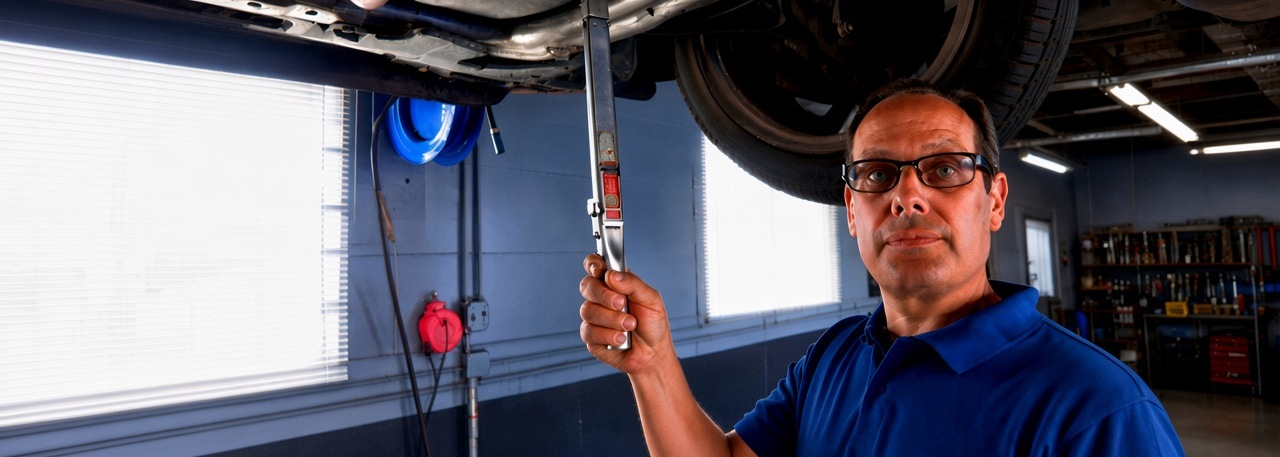
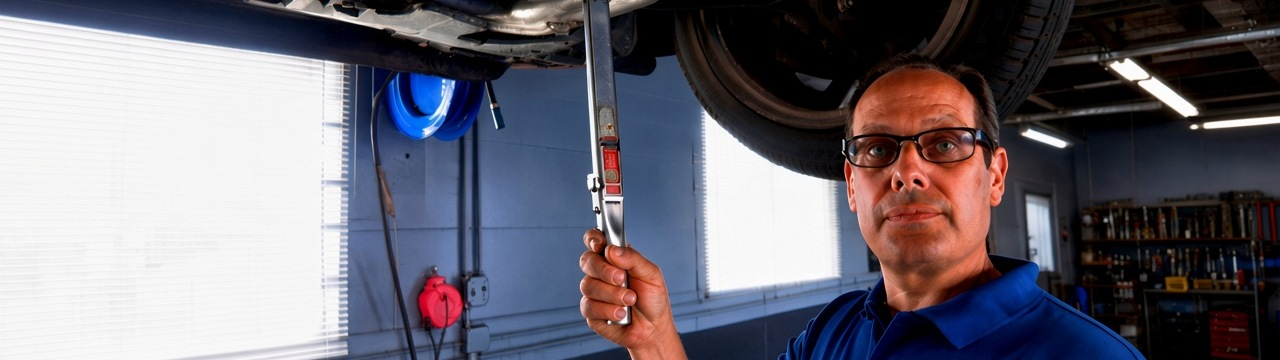
fix: match Steve Speaks hero aspect to capped media plane
Pre-crop the shop photo to ~3.55:1 so the 1600px ultrawide media
plane no longer cover-crops Steve's head off the short banner.

diff --git a/src/app/steve-speaks/page.tsx b/src/app/steve-speaks/page.tsx
@@ -32,7 +32,7 @@ export default async function SteveSpeaksPage() {
             src: "/images/steve-speaks-hero-v5.jpg",
             alt: "Steve Lite using a torque wrench under a car at Steve's Auto Care",
             // Focal: Steve's head/eyes — open right half, below overlay header band
-            focal: "72% 55%",
+            focal: "72% 50%",
           }}
           actions={
             <Button
